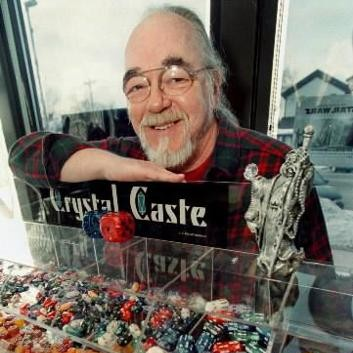
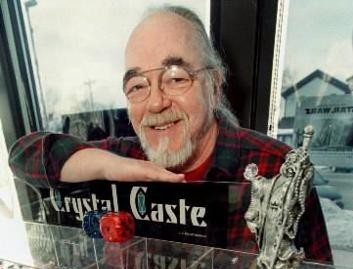
ajustes no js

diff --git a/js/app.js b/js/app.js
@@ -205,11 +205,12 @@ const dados = {
   ]
 };
 
-
+//função para gerar os cards na página inicial
 function gerarCards() {
   const container = document.getElementById('cards-container');
-  if (!container) return;
+  if (container === null) return; // verifica se o container existe na página
 
+  //percorre todos os cards definidos
   dados.cards.forEach(card => {
     const col = document.createElement('div');
     col.className = 'col';
@@ -225,13 +226,15 @@ function gerarCards() {
       </div>
     `;
 
+    // adiciona o card ao container principal
     container.appendChild(col);
   });
 }
 
+// função que gera o carrossel na página inicial
 function gerarCarrossel() {
   const container = document.getElementById('carousel-container');
-  if (!container) return;
+  if (container === null) return; // verifica se o container existe na página
 
   dados.cards.forEach((card, index) => {
     const slide = document.createElement('div');
@@ -246,19 +249,21 @@ function gerarCarrossel() {
         </div>
       </a>
     `;
+    // adiciona o slide ao container do carrossel
     container.appendChild(slide);
   });
 }
 
+// função responsável por exibir os detalhes de um card
 function mostrarDetalhe() {
   const container = document.getElementById('detalhe-card');
-  if (!container) return;
+  if (container === null) return; // se não existir sai da função
 
   const params = new URLSearchParams(window.location.search);
   const id = parseInt(params.get('id'));
   const card = dados.cards.find(c => c.id === id);
 
-  if (card) {
+  if (card) {  // se o card foi encontrado preenche o conteúdo da página de detalhes
     container.innerHTML = `
       <div class="detalhe-container">
         <div class="imagem">
@@ -278,8 +283,10 @@ function mostrarDetalhe() {
       </div>
     `;
 
+    // seleciona o container das fotos associadas
     const fotosContainer = document.getElementById("fotos-associadas");
 
+    //gera cards menores, caso exista imagens relacionadas
     if (card.atracoes && card.atracoes.length > 0) {
       fotosContainer.innerHTML = "";
       card.atracoes.forEach(item => {
@@ -296,19 +303,21 @@ function mostrarDetalhe() {
         fotosContainer.appendChild(col);
       });
     } else {
+      // Caso não existam itens semelhantes 
       fotosContainer.innerHTML = `<p class="text-muted">Nenhuma foto relacionada disponível.</p>`;
     }
   }
 }
 
-
+// Executa automaticamente as funções certas dependendo da página atual
 document.addEventListener("DOMContentLoaded", function () {
   const path = window.location.pathname;
 
+  //Na página inicial, gera cards e carrossel
   if (path.includes("index.html") || path === "/" || path === "") {
     gerarCards();
     gerarCarrossel();
-  } else if (path.includes("detalhes.html")) {
+  } else if (path.includes("detalhes.html")) { // na página de detalhes, mostra o conteúdo do card
     mostrarDetalhe();
   }
 });

diff --git a/css/style.css b/css/style.css
@@ -4,10 +4,6 @@
   box-sizing: border-box;
 }
 
-.conteudo {
-  white-space: pre-line;
-}
-
 body {
   background-color: #0b0a0f;
   color: #e4d9ff;
@@ -25,6 +21,7 @@ a:hover {
   color: #d1aaff;
 }
 
+/*Cabeçalho*/
 header {
   display: flex;
   align-items: center;
@@ -46,11 +43,13 @@ header h1 {
   font-family: "Cinzel", serif;
 }
 
+/*logo do site*/
 .logo {
   width: 50px;
   height: auto;
 }
 
+/*Carrossel*/
 .carousel-inner img {
   height: 400px;
   object-fit: cover;
@@ -73,6 +72,7 @@ header h1 {
   border-radius: 50%;
 }
 
+/*Cards*/
 #cards-container .card {
   height: 100%;
   display: flex;
@@ -119,6 +119,7 @@ header h1 {
   border-color: #343a40;
 }
 
+/*Página de detalhes*/
 #detalhe-card {
   background-color: #0f0a18;
   border-radius: 20px;
@@ -178,6 +179,7 @@ header h1 {
   box-shadow: 0 0 10px #b366ff;
 }
 
+/*Fotos relacionadas aos cards*/
 #fotos-associadas {
   padding-left: 15px;
   padding-right: 15px;
@@ -194,6 +196,7 @@ header h1 {
   object-fit: cover;
 }
 
+/*ajuste nos cards para seções internas*/
 #detalhe-card .card {
   border-radius: 10px;
   overflow: hidden;
@@ -219,6 +222,7 @@ header h1 {
   border-color: #343a40;
 }
 
+/*Rodapé*/
 footer {
   background-color: #160d24;
   color: #bca6e4;
@@ -228,12 +232,14 @@ footer {
   border-top: 1px solid #3d2b54;
 }
 
+/*seção "sobre mim"*/
 .sobremim {
   text-align: justify;
   color: white;
   padding: 10px;
 }
 
+/*ajustes gerais do conteúdo*/
 .conteudo {
   white-space: pre-line;
   text-align: justify;
@@ -250,6 +256,7 @@ footer {
   border-radius: 8px;
 }
 
+/*título das seções*/
 .mb-3.border-bottom.pb-2 {
   color: white;
   padding: 24px;
@@ -260,6 +267,7 @@ footer {
   color: #b086f7;
 }
 
+/*Responsividade*/
 @media (max-width: 992px) {
 
   #detalhe-card>div {
